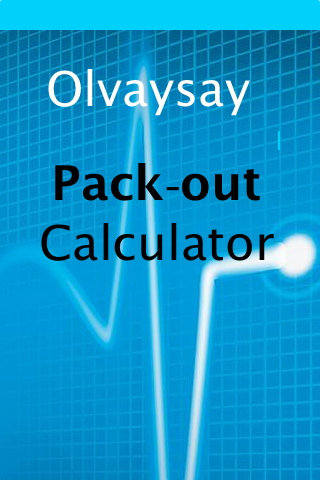
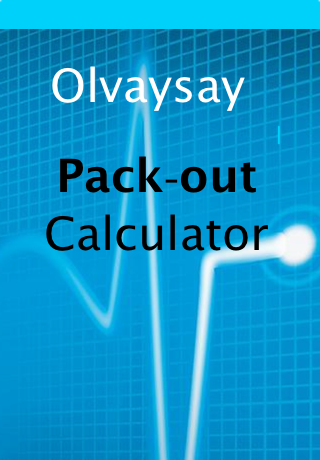
working for iPhone 5s splash and landscape warning

diff --git a/beam.js b/beam.js
@@ -44,7 +44,7 @@ function calculate() {
 	var passesLeft = passT -1 - passC;
 	var weightCalculated = (weightAdded * passesLeft) + weightLeftInCurrentPass;
 	var hoursToPackout = weightCalculated / rate;
-	var date = new Date().addHours(hoursToPackout).toString().replace(/:\d\d GMT-.*/,"");
+	var date = new Date().addHours(hoursToPackout).toString().replace(/:\d\d GMT-.*/,"").replace(/20\d\d /,'')
 	result.innerHTML = date
 	boxesNeeded.innerHTML = (Math.ceil(weightAdded / boxWeight))
 	document.getElementById("slide-pt").innerHTML = passT; 
@@ -55,6 +55,16 @@ function calculate() {
 	document.getElementById("slide-bw").innerHTML = boxWeight; 
 }
 
-document.ontouchmove = function(event){
-	    event.preventDefault();
+	document.ontouchmove = function(event){
+			    event.preventDefault();
+	}
+function readDeviceOrientation() {
+                 		
+    if (Math.abs(window.orientation) === 90) {
+	   document.getElementById('landscape').style.display ='block'; 
+    } else {
+	   document.getElementById('landscape').style.display ='none'; 
+    	// Portrait
+    }
 }
+window.onorientationchange = readDeviceOrientation;

diff --git a/landscape.html b/landscape.html
@@ -1,0 +1,2 @@
+<!DOCTYPE html>
+<html><body><img src='landscape.png'></img></body></html>
